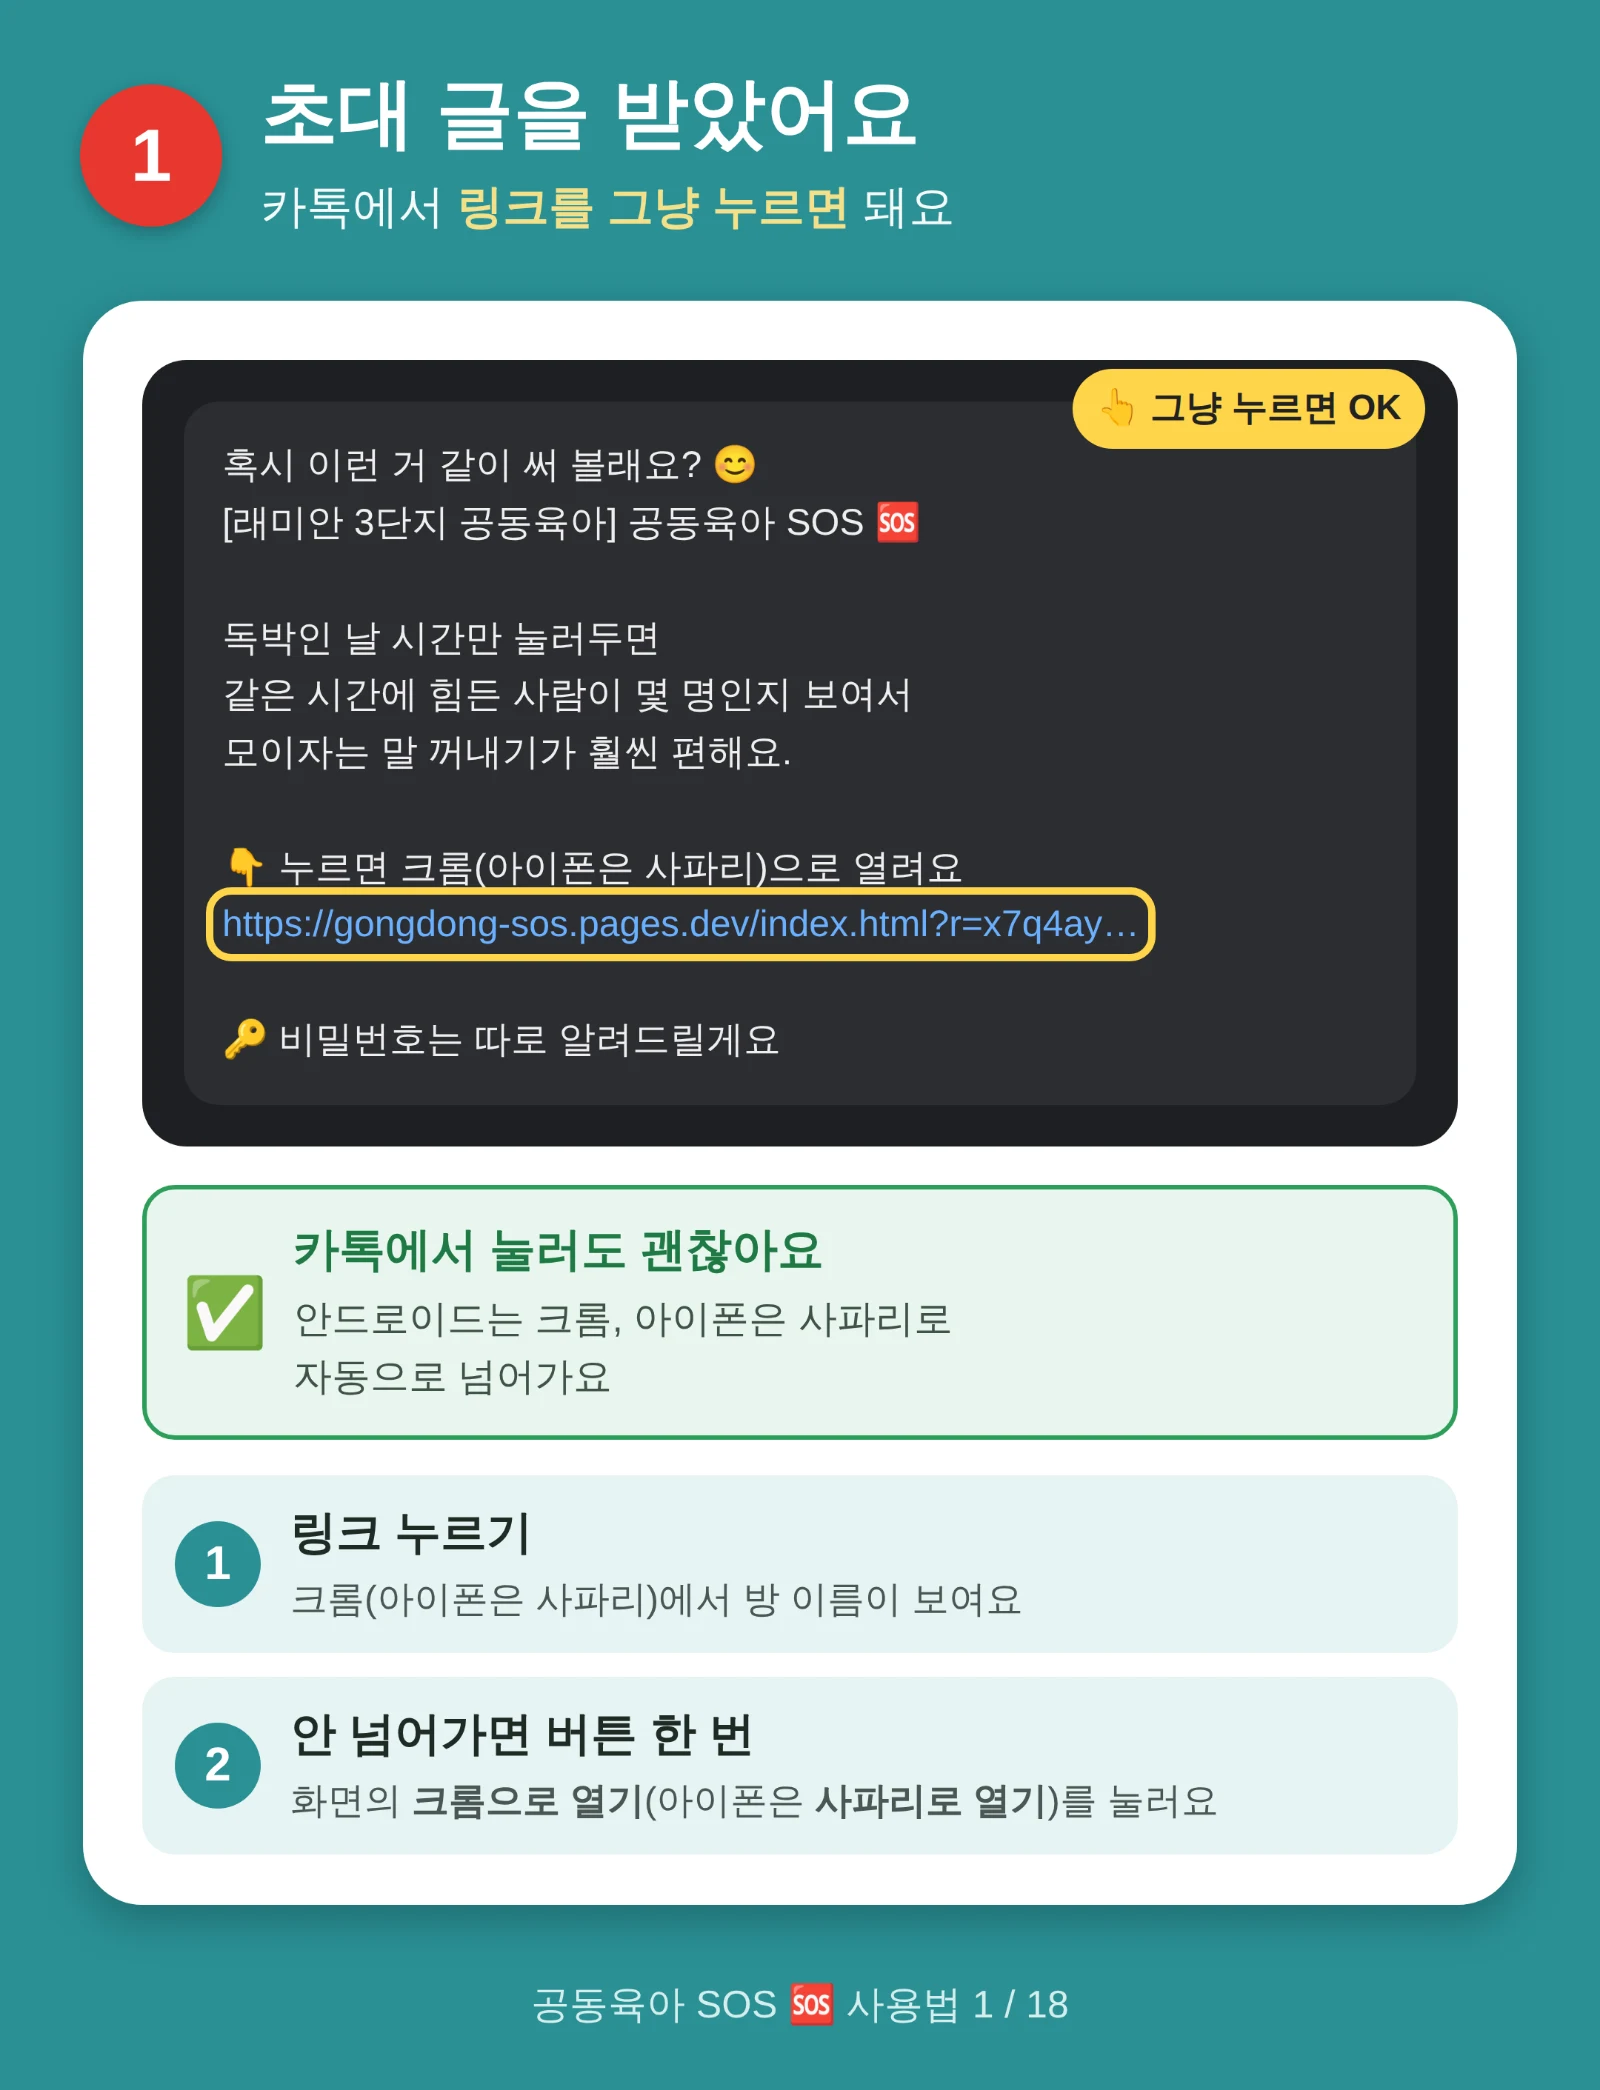
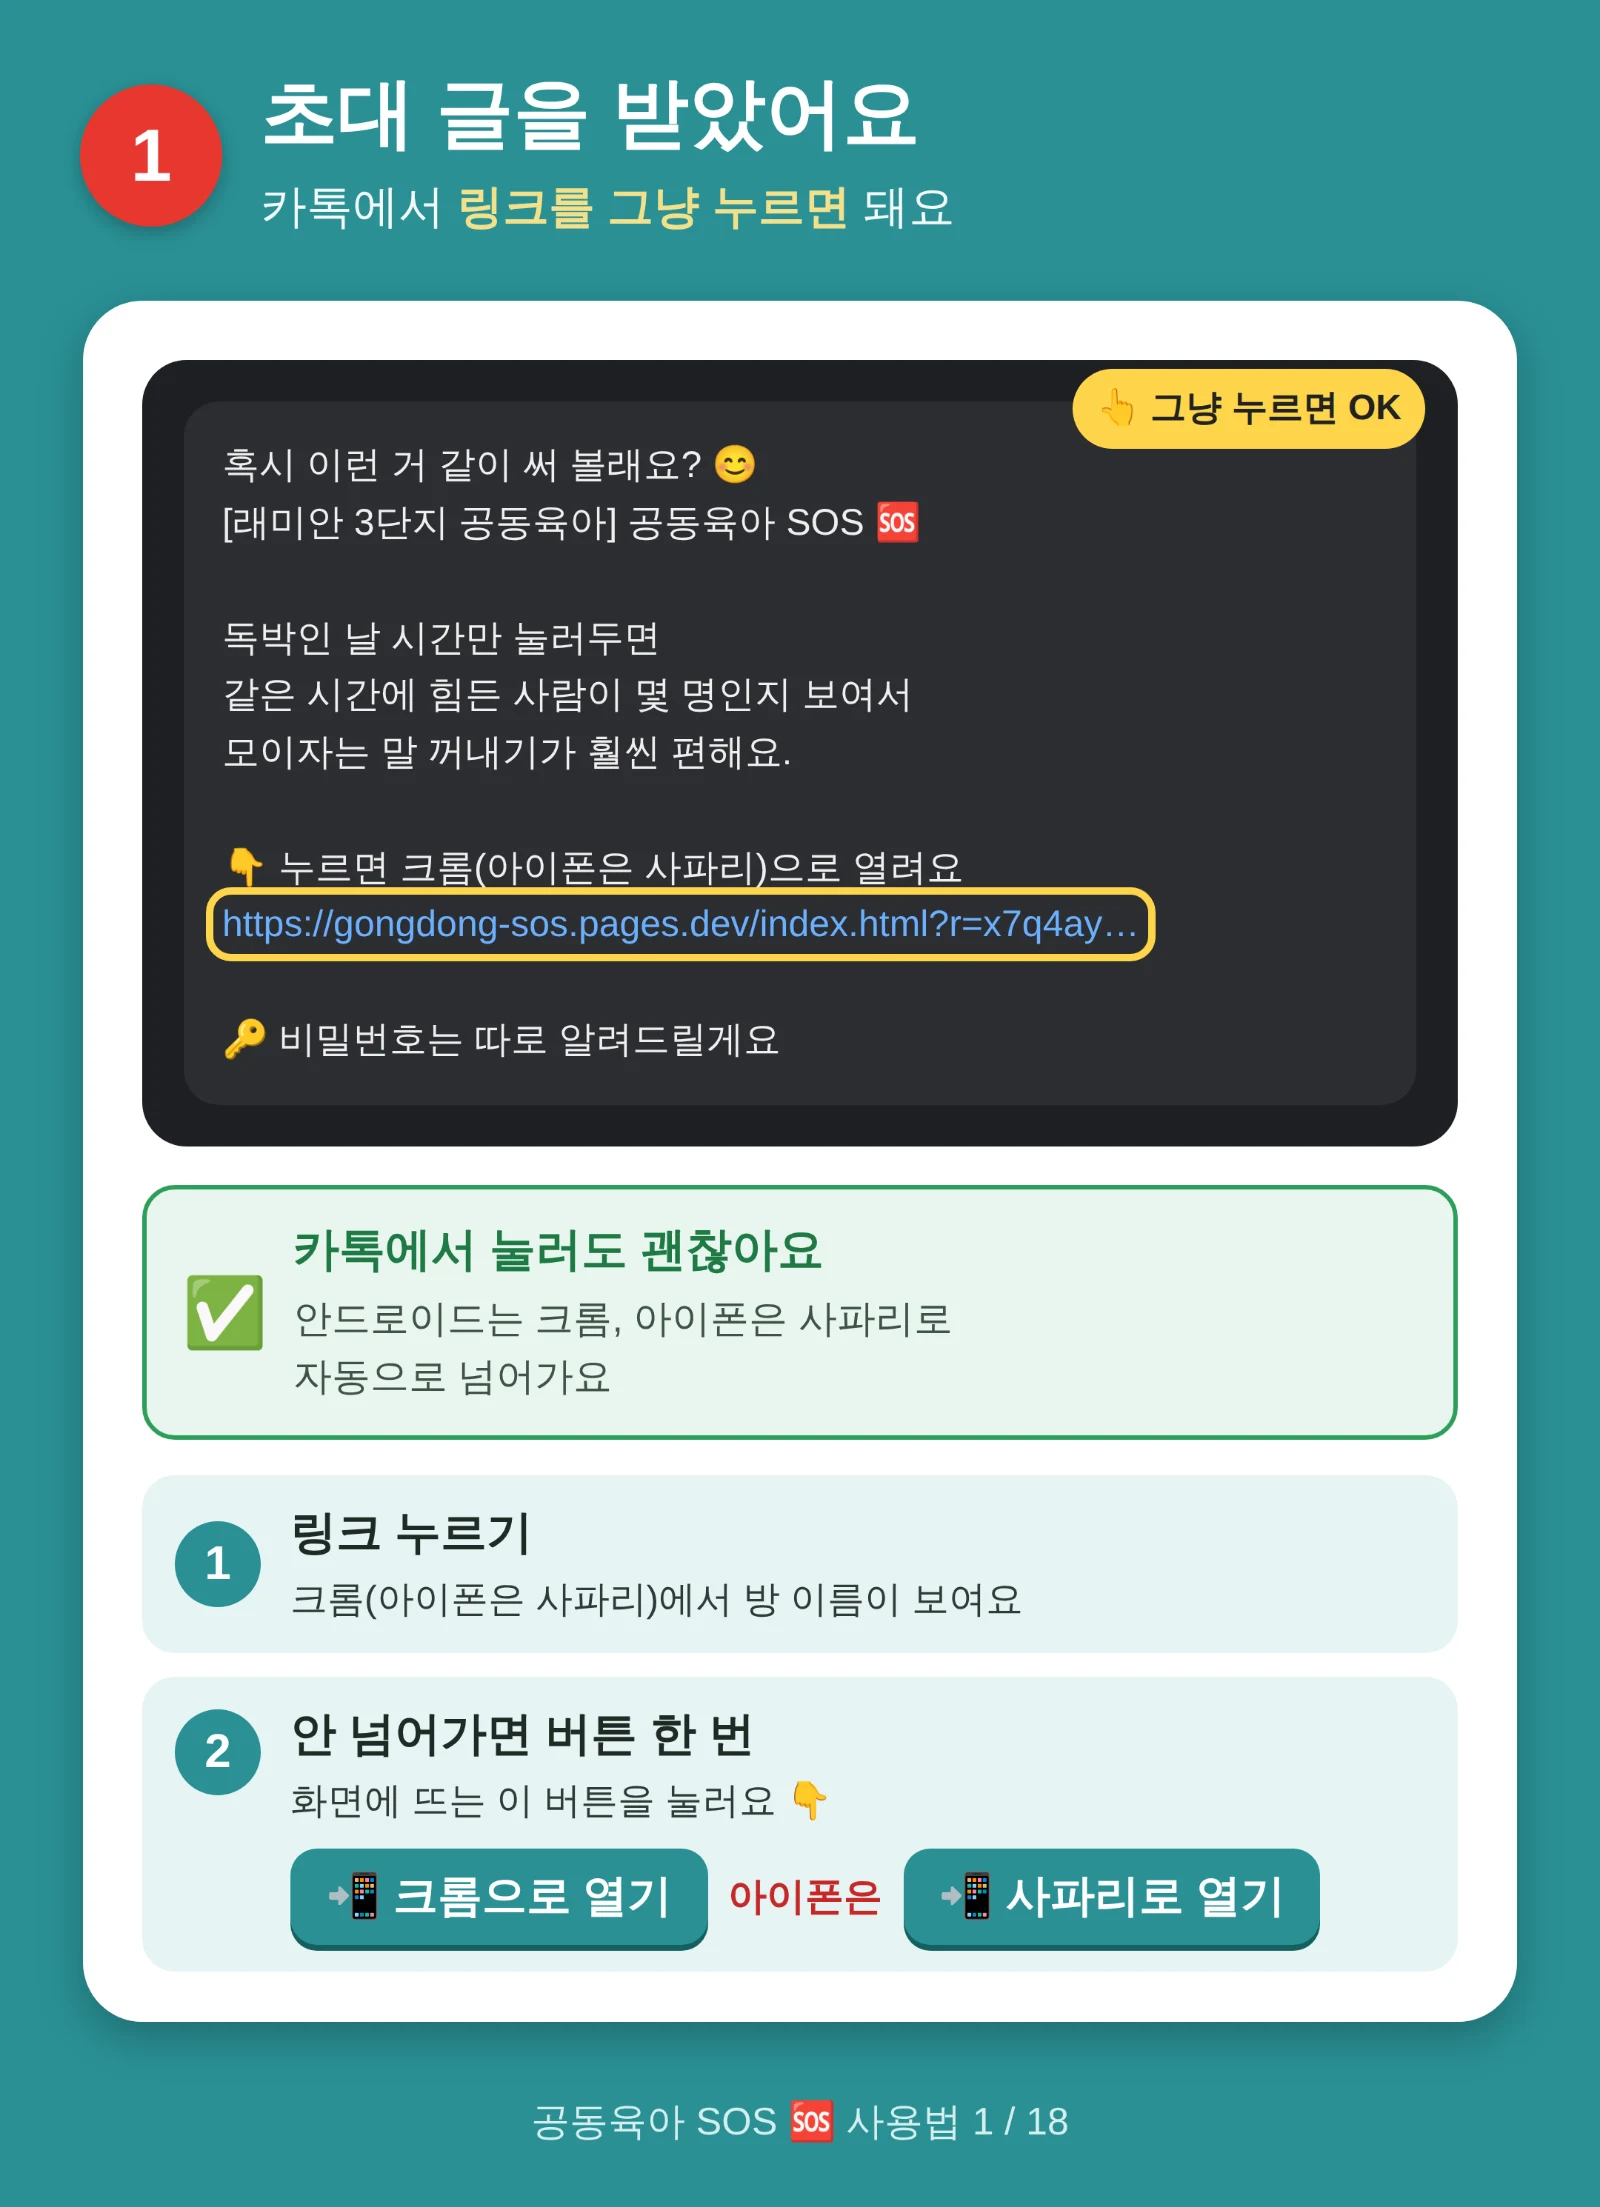
Guide slide 1: show the Chrome/Safari open buttons as big button chips
Claude-Session: https://claude.ai/code/session_01EFizHcDdWswyQN5TmKwWHe

Changed region(s): [[0.0312, 0.0311, 0.9375, 0.9952], [0.0625, 0.6531, 0.0938, 0.6842]]

diff --git a/sos/safety.html b/sos/safety.html
@@ -8,14 +8,14 @@
 <link rel="preconnect" href="https://fonts.gstatic.com" crossorigin>
 <link rel="stylesheet" href="https://fonts.googleapis.com/css2?family=IBM+Plex+Sans+KR:wght@400;500;600;700&display=swap">
 <link rel="icon" href="assets/icon.svg" type="image/svg+xml">
-<link rel="manifest" href="manifest.webmanifest?v=202610091116">
+<link rel="manifest" href="manifest.webmanifest?v=202610091117">
 <meta name="theme-color" content="#2a9095">
 <link rel="apple-touch-icon" href="assets/icon-sos-180.png">
 <meta name="apple-mobile-web-app-capable" content="yes">
 <meta name="mobile-web-app-capable" content="yes">
 <meta name="apple-mobile-web-app-title" content="공동육아 SOS">
-<link rel="stylesheet" href="assets/common.css?v=202610091116">
-<script src="assets/gate.js?v=202610091116"></script>
+<link rel="stylesheet" href="assets/common.css?v=202610091117">
+<script src="assets/gate.js?v=202610091117"></script>
 </head>
 <body>
 <div class="wrap single">
@@ -135,8 +135,8 @@
 <script src="https://www.gstatic.com/firebasejs/10.12.0/firebase-auth-compat.js"></script>
 <script src="https://www.gstatic.com/firebasejs/10.12.0/firebase-firestore-compat.js"></script>
 <script src="https://www.gstatic.com/firebasejs/10.12.0/firebase-messaging-compat.js"></script>
-<script src="assets/common.js?v=202610091116"></script>
-<script src="assets/push.js?v=202610091116"></script>
+<script src="assets/common.js?v=202610091117"></script>
+<script src="assets/push.js?v=202610091117"></script>
 <script>
 document.getElementById('deleteMe').addEventListener('click', async e => {
   const owning = sosRooms().filter(r => r.owner).map(r => r.name);   // 내가 방장인 방이 있으면 먼저 알려 줘요

diff --git a/sos/index.html b/sos/index.html
@@ -9,14 +9,14 @@
 <link rel="preconnect" href="https://fonts.gstatic.com" crossorigin>
 <link rel="stylesheet" href="https://fonts.googleapis.com/css2?family=IBM+Plex+Sans+KR:wght@400;500;600;700&display=swap">
 <link rel="icon" href="assets/icon.svg" type="image/svg+xml">
-<link rel="manifest" href="manifest.webmanifest?v=202610091116">
+<link rel="manifest" href="manifest.webmanifest?v=202610091117">
 <meta name="theme-color" content="#2a9095">
 <link rel="apple-touch-icon" href="assets/icon-sos-180.png">
 <meta name="apple-mobile-web-app-capable" content="yes">
 <meta name="mobile-web-app-capable" content="yes">
 <meta name="apple-mobile-web-app-title" content="공동육아 SOS">
-<link rel="stylesheet" href="assets/common.css?v=202610091116">
-<script src="assets/gate.js?v=202610091116"></script>
+<link rel="stylesheet" href="assets/common.css?v=202610091117">
+<script src="assets/gate.js?v=202610091117"></script>
 </head>
 <body>
 <div class="wrap single">
@@ -84,8 +84,8 @@
 <script src="https://www.gstatic.com/firebasejs/10.12.0/firebase-auth-compat.js"></script>
 <script src="https://www.gstatic.com/firebasejs/10.12.0/firebase-firestore-compat.js"></script>
 <script src="https://www.gstatic.com/firebasejs/10.12.0/firebase-messaging-compat.js"></script>
-<script src="assets/common.js?v=202610091116"></script>
-<script src="assets/push.js?v=202610091116"></script>
+<script src="assets/common.js?v=202610091117"></script>
+<script src="assets/push.js?v=202610091117"></script>
 <script>
 sosSummary();
 // 📲 설치 안내: 이미 앱으로 열었으면 숨기고, 내 휴대폰 종류의 안내를 먼저 펼쳐요

diff --git a/sos/meet.html b/sos/meet.html
@@ -8,14 +8,14 @@
 <link rel="preconnect" href="https://fonts.gstatic.com" crossorigin>
 <link rel="stylesheet" href="https://fonts.googleapis.com/css2?family=IBM+Plex+Sans+KR:wght@400;500;600;700&display=swap">
 <link rel="icon" href="assets/icon.svg" type="image/svg+xml">
-<link rel="manifest" href="manifest.webmanifest?v=202610091116">
+<link rel="manifest" href="manifest.webmanifest?v=202610091117">
 <meta name="theme-color" content="#2a9095">
 <link rel="apple-touch-icon" href="assets/icon-sos-180.png">
 <meta name="apple-mobile-web-app-capable" content="yes">
 <meta name="mobile-web-app-capable" content="yes">
 <meta name="apple-mobile-web-app-title" content="공동육아 SOS">
-<link rel="stylesheet" href="assets/common.css?v=202610091116">
-<script src="assets/gate.js?v=202610091116"></script>
+<link rel="stylesheet" href="assets/common.css?v=202610091117">
+<script src="assets/gate.js?v=202610091117"></script>
 </head>
 <body>
 <div class="wrap single">
@@ -59,8 +59,8 @@
 <script src="https://www.gstatic.com/firebasejs/10.12.0/firebase-auth-compat.js"></script>
 <script src="https://www.gstatic.com/firebasejs/10.12.0/firebase-firestore-compat.js"></script>
 <script src="https://www.gstatic.com/firebasejs/10.12.0/firebase-messaging-compat.js"></script>
-<script src="assets/common.js?v=202610091116"></script>
-<script src="assets/push.js?v=202610091116"></script>
-<script src="assets/meet.js?v=202610091116"></script>
+<script src="assets/common.js?v=202610091117"></script>
+<script src="assets/push.js?v=202610091117"></script>
+<script src="assets/meet.js?v=202610091117"></script>
 </body>
 </html>

diff --git a/sos/play.html b/sos/play.html
@@ -8,14 +8,14 @@
 <link rel="preconnect" href="https://fonts.gstatic.com" crossorigin>
 <link rel="stylesheet" href="https://fonts.googleapis.com/css2?family=IBM+Plex+Sans+KR:wght@400;500;600;700&display=swap">
 <link rel="icon" href="assets/icon.svg" type="image/svg+xml">
-<link rel="manifest" href="manifest.webmanifest?v=202610091116">
+<link rel="manifest" href="manifest.webmanifest?v=202610091117">
 <meta name="theme-color" content="#2a9095">
 <link rel="apple-touch-icon" href="assets/icon-sos-180.png">
 <meta name="apple-mobile-web-app-capable" content="yes">
 <meta name="mobile-web-app-capable" content="yes">
 <meta name="apple-mobile-web-app-title" content="공동육아 SOS">
-<link rel="stylesheet" href="assets/common.css?v=202610091116">
-<script src="assets/gate.js?v=202610091116"></script>
+<link rel="stylesheet" href="assets/common.css?v=202610091117">
+<script src="assets/gate.js?v=202610091117"></script>
 </head>
 <body>
 <div class="wrap">
@@ -135,8 +135,8 @@
 <script src="https://www.gstatic.com/firebasejs/10.12.0/firebase-app-compat.js"></script>
 <script src="https://www.gstatic.com/firebasejs/10.12.0/firebase-auth-compat.js"></script>
 <script src="https://www.gstatic.com/firebasejs/10.12.0/firebase-firestore-compat.js"></script>
-<script src="plays.js?v=202610091116"></script>
-<script src="assets/common.js?v=202610091116"></script>
-<script src="assets/play.js?v=202610091116"></script>
+<script src="plays.js?v=202610091117"></script>
+<script src="assets/common.js?v=202610091117"></script>
+<script src="assets/play.js?v=202610091117"></script>
 </body>
 </html>

diff --git a/sos/terms.html b/sos/terms.html
@@ -8,14 +8,14 @@
 <link rel="preconnect" href="https://fonts.gstatic.com" crossorigin>
 <link rel="stylesheet" href="https://fonts.googleapis.com/css2?family=IBM+Plex+Sans+KR:wght@400;500;600;700&display=swap">
 <link rel="icon" href="assets/icon.svg" type="image/svg+xml">
-<link rel="manifest" href="manifest.webmanifest?v=202610091116">
+<link rel="manifest" href="manifest.webmanifest?v=202610091117">
 <meta name="theme-color" content="#2a9095">
 <link rel="apple-touch-icon" href="assets/icon-sos-180.png">
 <meta name="apple-mobile-web-app-capable" content="yes">
 <meta name="mobile-web-app-capable" content="yes">
 <meta name="apple-mobile-web-app-title" content="공동육아 SOS">
-<link rel="stylesheet" href="assets/common.css?v=202610091116">
-<script src="assets/gate.js?v=202610091116"></script>
+<link rel="stylesheet" href="assets/common.css?v=202610091117">
+<script src="assets/gate.js?v=202610091117"></script>
 </head>
 <body>
 <div class="wrap single">
@@ -109,6 +109,6 @@
 <script src="https://www.gstatic.com/firebasejs/10.12.0/firebase-app-compat.js"></script>
 <script src="https://www.gstatic.com/firebasejs/10.12.0/firebase-auth-compat.js"></script>
 <script src="https://www.gstatic.com/firebasejs/10.12.0/firebase-firestore-compat.js"></script>
-<script src="assets/common.js?v=202610091116"></script>
+<script src="assets/common.js?v=202610091117"></script>
 </body>
 </html>

diff --git a/sos/admin.html b/sos/admin.html
@@ -12,8 +12,8 @@
 <meta name="apple-mobile-web-app-capable" content="yes">
 <meta name="mobile-web-app-capable" content="yes">
 <meta name="apple-mobile-web-app-title" content="SOS 운영">
-<link rel="stylesheet" href="assets/common.css?v=202610091116">
-<script src="assets/gate.js?v=202610091116"></script>
+<link rel="stylesheet" href="assets/common.css?v=202610091117">
+<script src="assets/gate.js?v=202610091117"></script>
 <style>
 /* 운영자 화면: 숫자 타일 → 주간 막대 → 방 표. 단일 색(teal) 막대, 상태색은 경고에만 */
 body{padding-block:20px 60px}

diff --git a/sos/guide.html b/sos/guide.html
@@ -5,7 +5,7 @@
 <meta name="viewport" content="width=device-width,initial-scale=1,viewport-fit=cover">
 <title>사용법 · 공동육아 SOS</title>
 <link rel="icon" href="assets/icon.svg" type="image/svg+xml">
-<link rel="manifest" href="manifest.webmanifest?v=202610091116">
+<link rel="manifest" href="manifest.webmanifest?v=202610091117">
 <meta name="theme-color" content="#2a9095">
 <link rel="apple-touch-icon" href="assets/icon-sos-180.png">
 <style>
